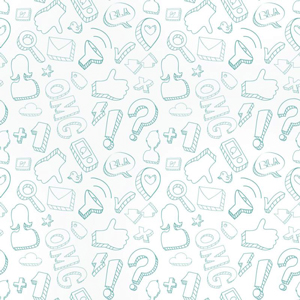
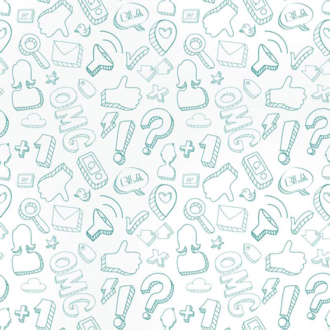
Ajustes

Changed region(s): [[0.81, 0.18, 0.84, 0.21], [0.27, 0.21, 0.3, 0.24]]

diff --git a/css/style.css b/css/style.css
@@ -1,11 +1,13 @@
 body {
   background-image: url('../img/plano_de_fundo_whatsapp.jpg');
+  background-size: 300px;
   background-repeat: repeat;
 }
 .icone {
   width: 200px;
   height: 200px;
   background-image: url('../img/icone_whatsapp.png');
+  background-size: 200px;
   margin: 0 auto;
 }
 .right {
